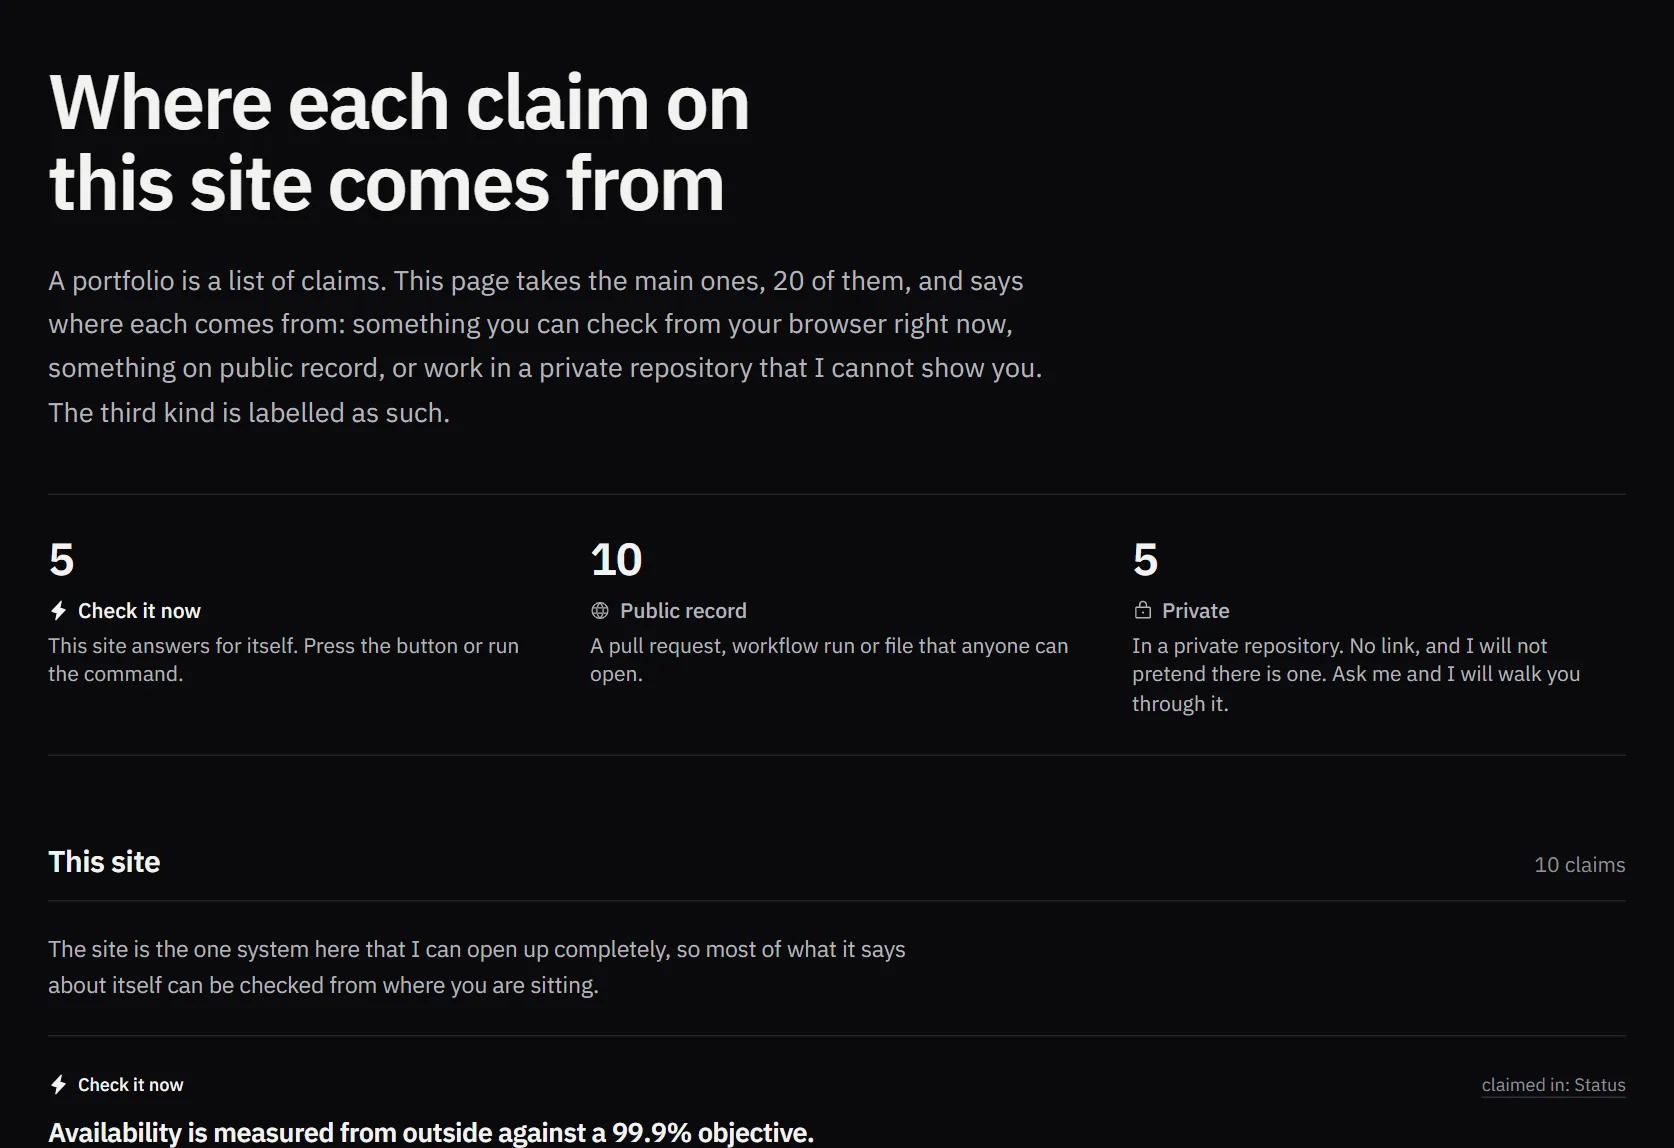
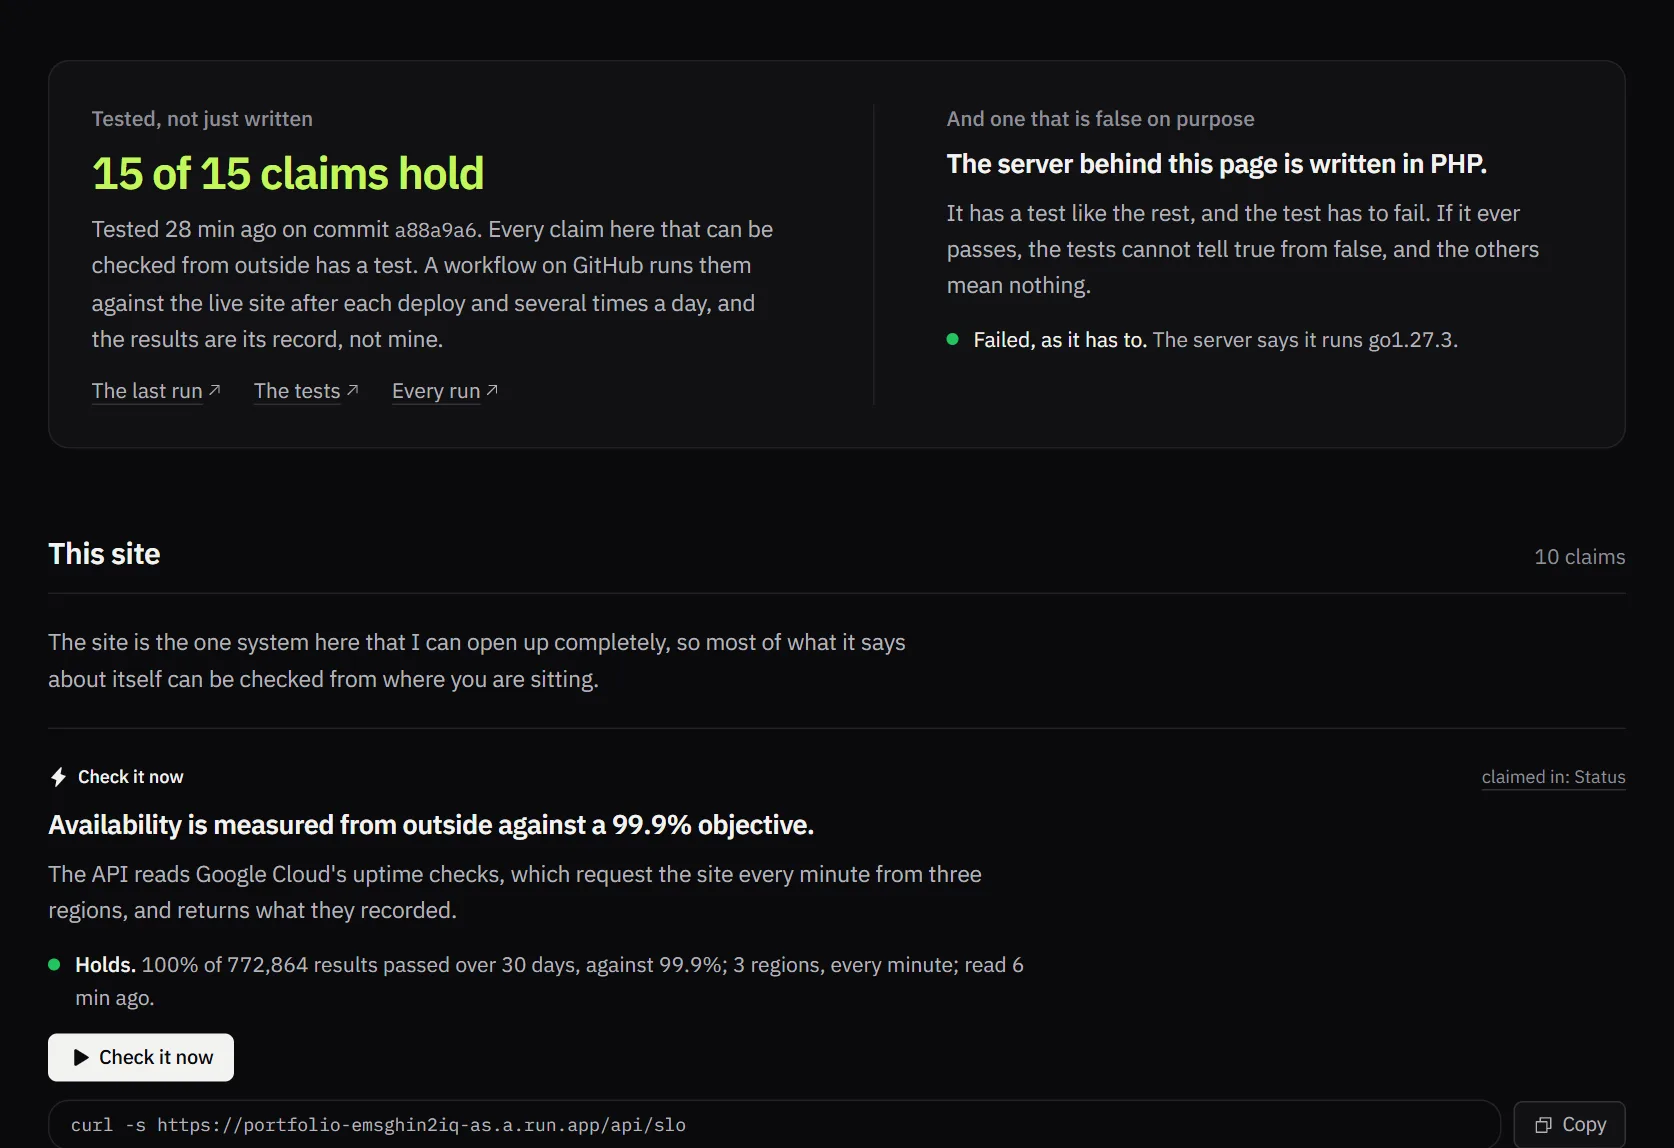
The README shows the claims and what became of them
15 of 15 hold, and the one that is false on purpose failed.

diff --git a/README.md b/README.md
@@ -48,7 +48,7 @@ server with one bug planted in it, real traffic, and a check that grades the fix
 | **Go on call** (`/oncall`): two simulated pages, stale telemetry on the IoT platform or slow answers on the AI agent platform. Every look and action costs minutes while the error budget burns, and you get a postmortem of your own response; the site's terminal runs them as text too (`oncall`). | **How this site ships**: DORA's four keys for this repository, computed by the pipeline from its own commits and deploy runs and baked into the image it deploys. |
 | [![Break it yourself: a retry run against 30% errors, every attempt on a timeline](docs/screenshots/break.webp)](https://portfolio-emsghin2iq-as.a.run.app/break) | [![What it costs: the month's receipt and where the money goes](docs/screenshots/cost.webp)](https://portfolio-emsghin2iq-as.a.run.app/cost) |
 | **Break it yourself** (`/break`): delays and 503s injected into your own requests on the live server, and four clients against them: give up, retry with jittered backoff, a circuit breaker, hedging. | **What it costs** (`/cost`): the month so far as a receipt, from the service's own meters at list prices, with where the money goes, a what-if for a busy day, and what caps the bill. |
-| [![A console on the site calling its own MCP server](docs/screenshots/agents.webp)](https://portfolio-emsghin2iq-as.a.run.app/agents) | [![The site's claims, sorted by how they can be checked](docs/screenshots/evidence.webp)](https://portfolio-emsghin2iq-as.a.run.app/evidence) |
+| [![A console on the site calling its own MCP server](docs/screenshots/agents.webp)](https://portfolio-emsghin2iq-as.a.run.app/agents) | [![The site's claims and what became of them when they were last tested](docs/screenshots/evidence.webp)](https://portfolio-emsghin2iq-as.a.run.app/evidence) |
 | **Ask it with your own agent** (`/agents`): the site is an MCP server. Add one URL to Claude, Cursor or any MCP client, or call the tools from the console on the page. `curl` on the home page gets a text card. | **Evidence** (`/evidence`): every headline claim, sorted by whether you can check it live, on public record, or not at all because the work is private. The first two kinds are tested, each claim shows what its test saw, and one claim is false on purpose. |
 | [![The map with Cloud Run unplugged, and what that costs](docs/screenshots/unplug.webp)](https://portfolio-emsghin2iq-as.a.run.app/) | [![The site's terminal, with the SLO and the deploys read from the live API](docs/screenshots/terminal.webp)](https://portfolio-emsghin2iq-as.a.run.app/?terminal) |
 | **Unplug something** (the map on the home page): take one part of the site away in your own tab. Every page then shows what it would really do without it, and the caption says what is lost, what still works, how it comes back and why that is accepted. | **The terminal** (press `` ` `` anywhere, or `/?terminal`): a shell in the page over the live API, with the status, the SLO, the bill, the deploys and the claims to ask for, and the on-call drill as text. |
